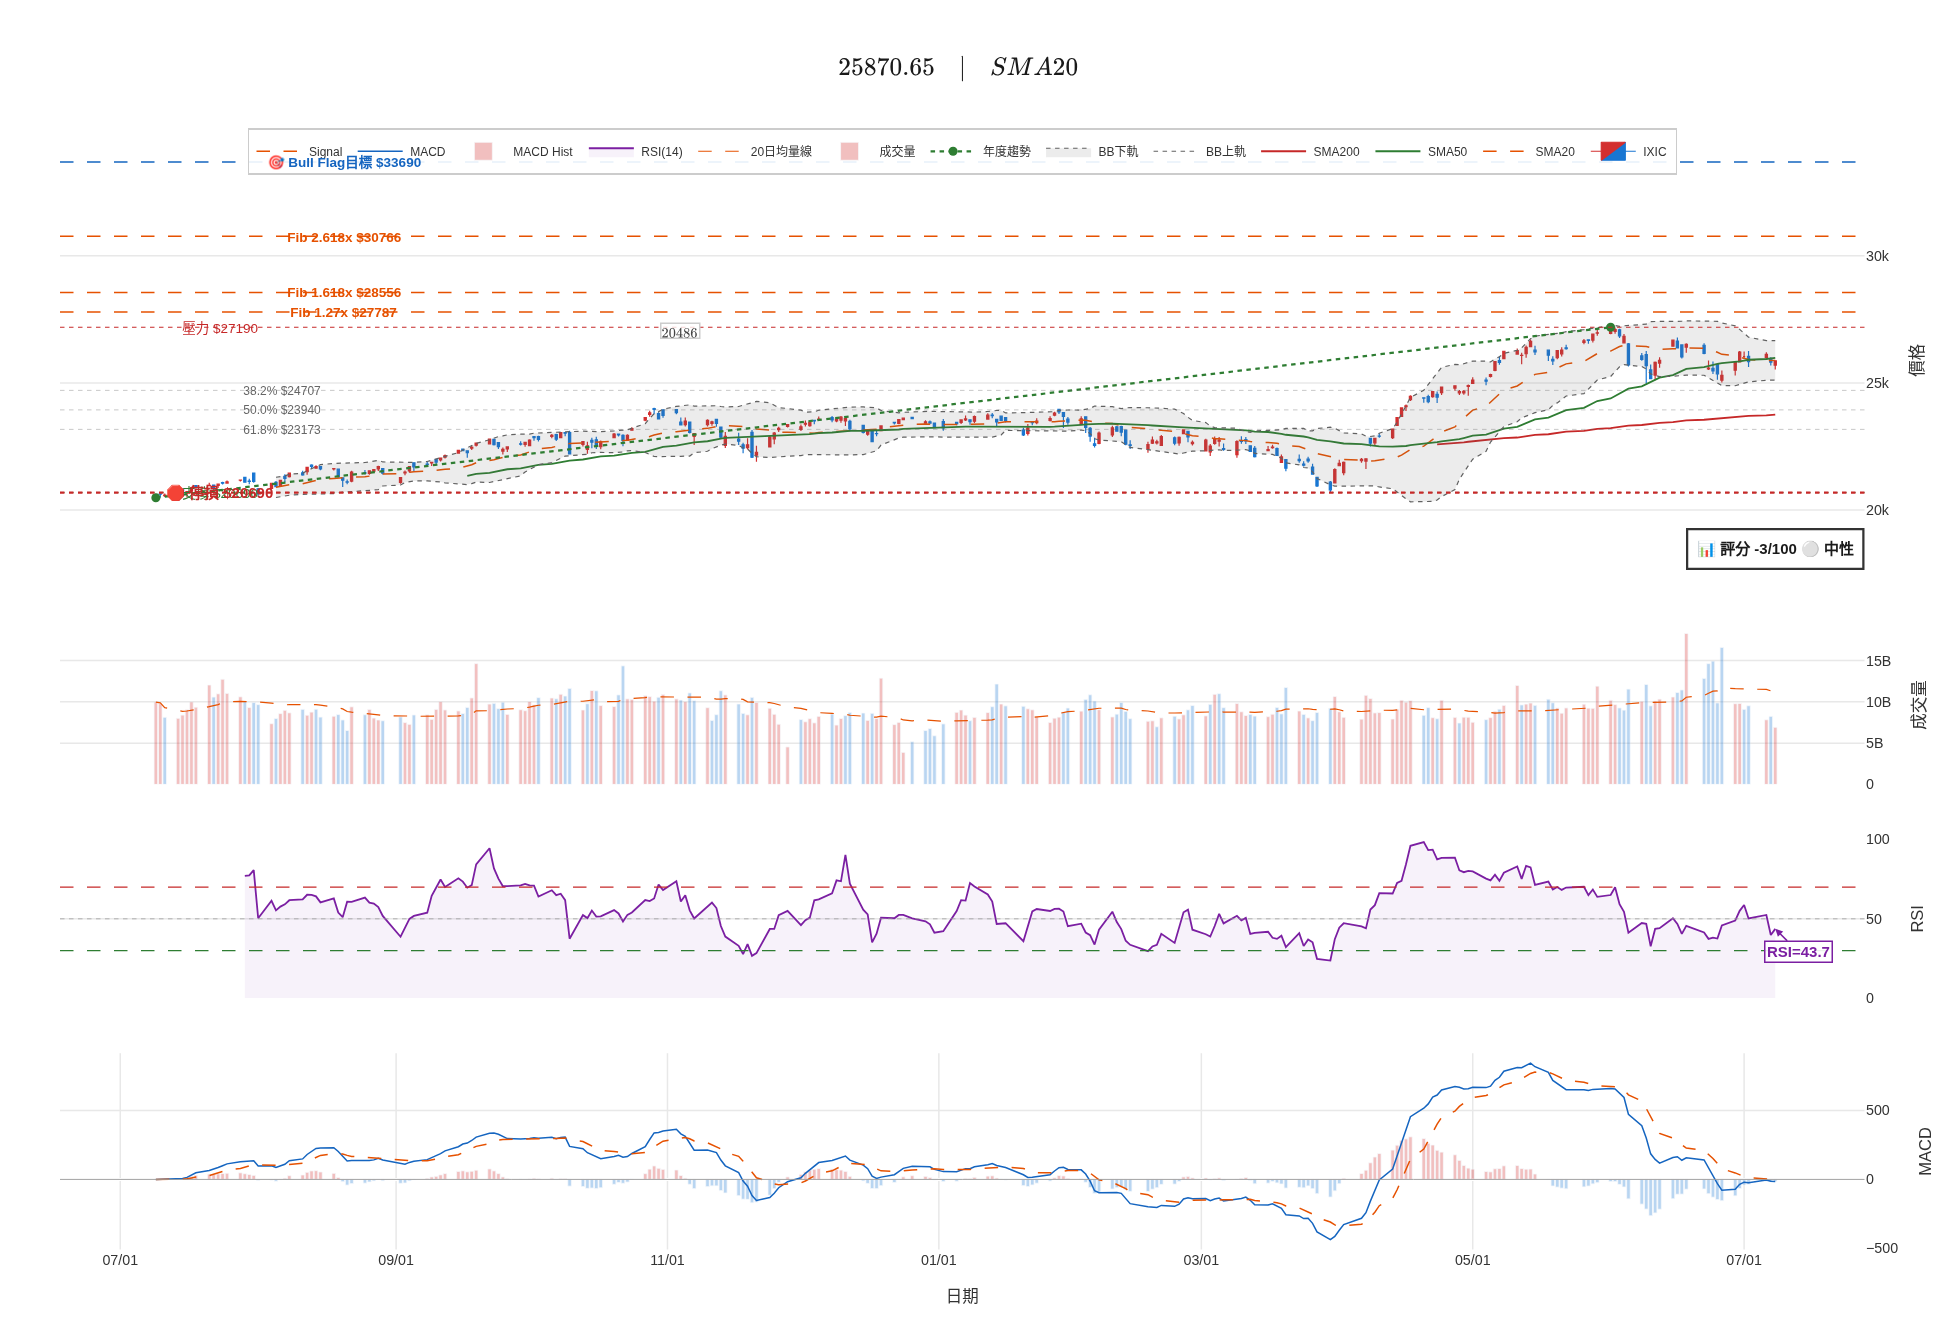
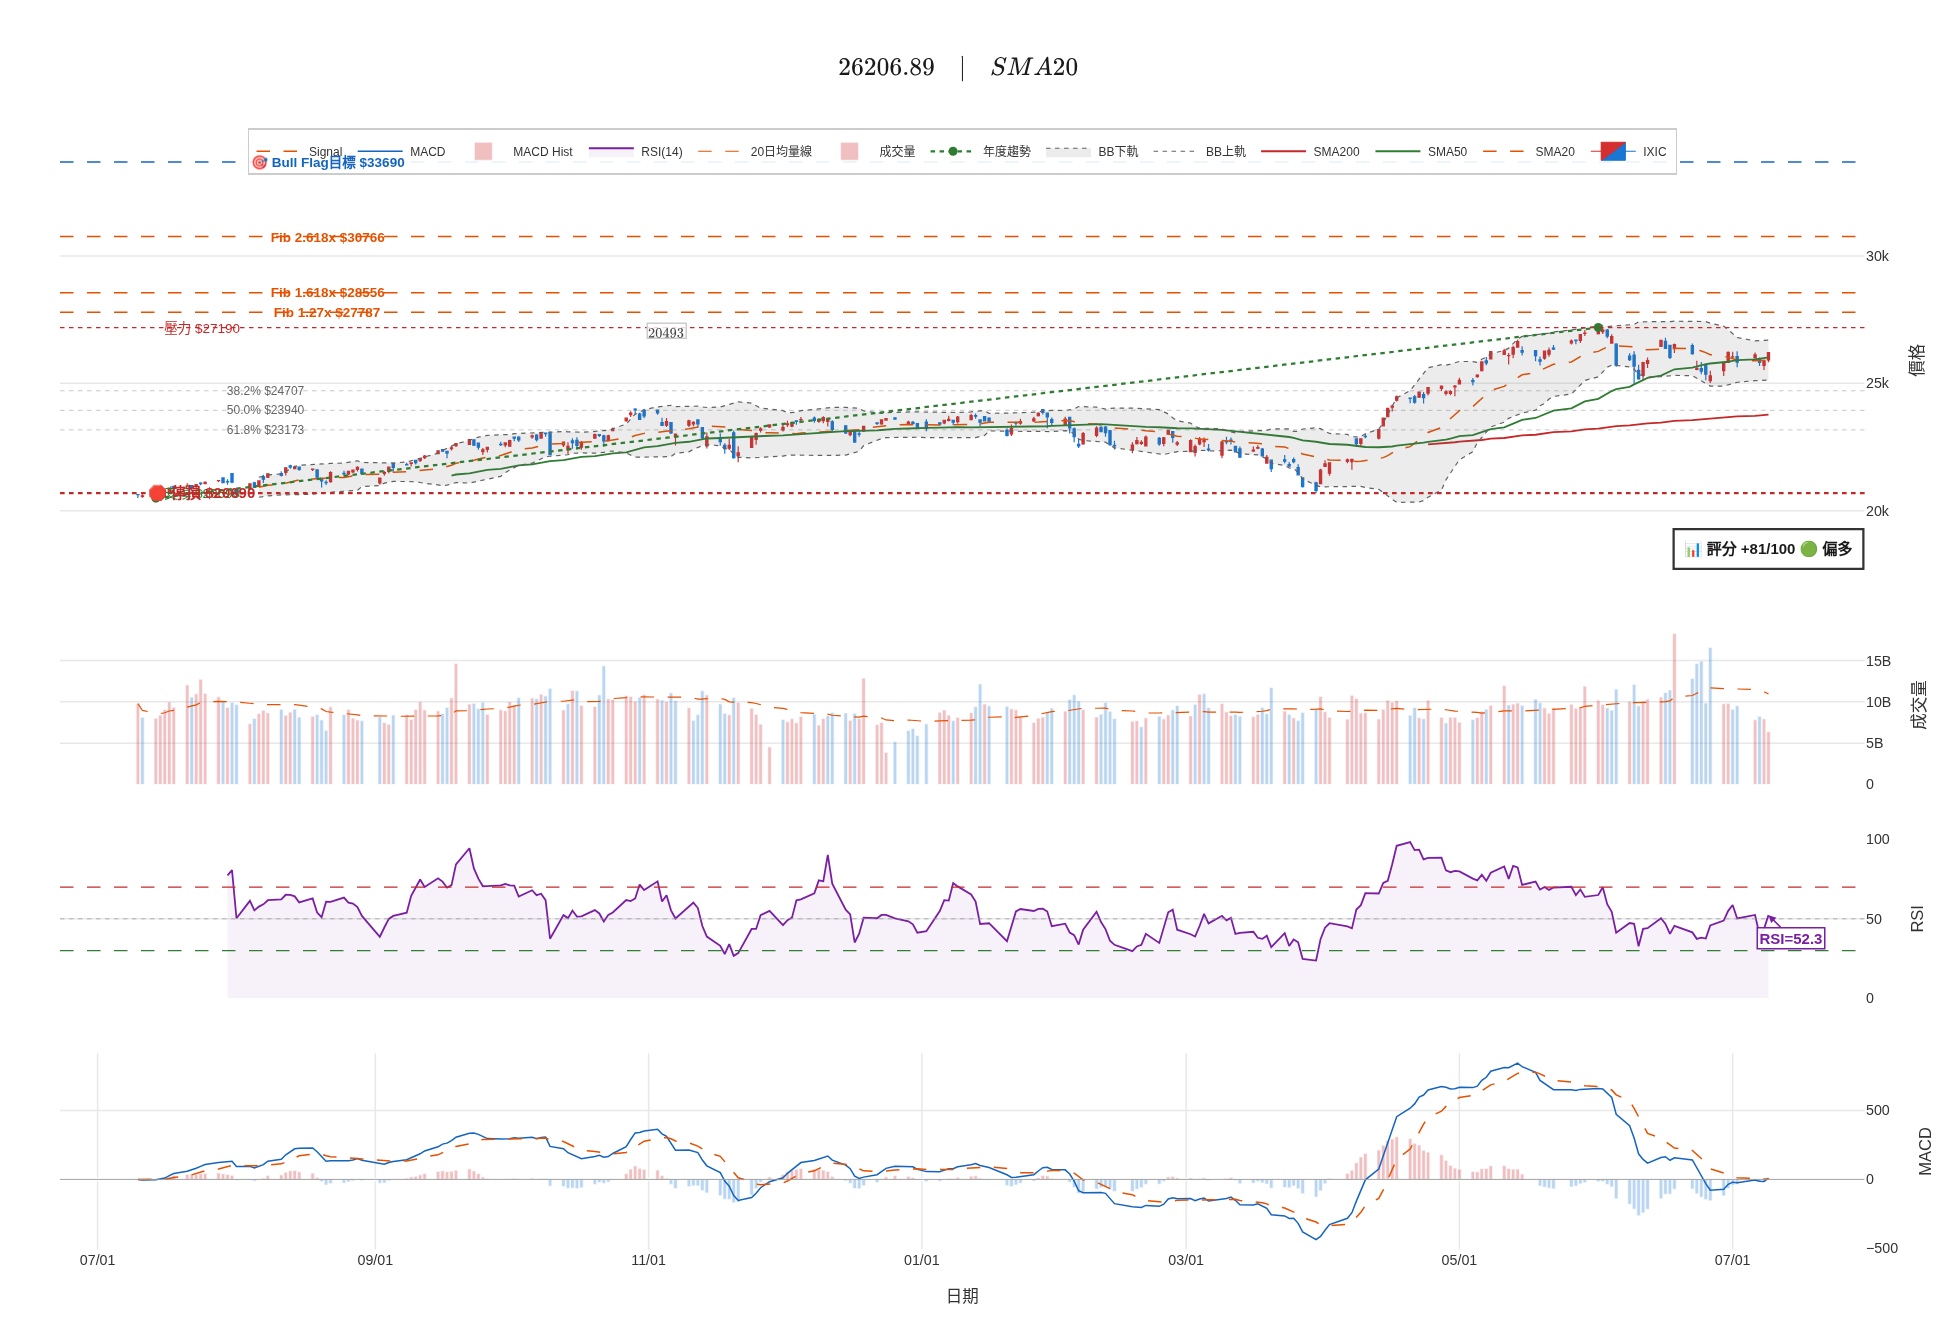
charts: 更新 2026-07-10 技術圖

diff --git a/charts/index.html b/charts/index.html
@@ -39,27 +39,27 @@ body { font-family:'Noto Sans TC',sans-serif; background:#f5f0e8; color:#1a1714;
   <a href="../">← 回首頁</a>
 </div>
 <div class="container">
-  <div class="date-badge">📅 2026/07/09 — 週四盤前</div>
+  <div class="date-badge">📅 2026/07/10 — 週五盤前</div>
   <div class="chart-grid">
     <div class="chart-card">
       <img src="dji.png" alt="道瓊工業指數">
-      <div class="info"><h3>道瓊工業指數 DJI</h3><p>52,348.39 (-1.09%) · RSI 55.8</p></div>
+      <div class="info"><h3>道瓊工業指數 DJI</h3><p>52,487.41 (+0.27%) · RSI 69.0</p></div>
     </div>
     <div class="chart-card">
       <img src="sox.png" alt="費城半導體指數">
-      <div class="info"><h3>費城半導體指數 SOX</h3><p>12,574.97 (+2.23%) · RSI 45.2</p></div>
+      <div class="info"><h3>費城半導體指數 SOX</h3><p>12,960.00 (+3.06%) · RSI 46.7</p></div>
     </div>
     <div class="chart-card">
       <img src="ixic.png" alt="納斯達克指數">
-      <div class="info"><h3>納斯達克指數 IXIC</h3><p>25,870.65 (+0.20%) · RSI 43.7</p></div>
+      <div class="info"><h3>納斯達克指數 IXIC</h3><p>26,206.89 (+1.30%) · RSI 52.3</p></div>
     </div>
     <div class="chart-card">
       <img src="tsm.png" alt="台積電 ADR">
-      <div class="info"><h3>台積電 ADR (TSM)</h3><p>$436.98 (+1.02%) · RSI 52.6</p></div>
+      <div class="info"><h3>台積電 ADR (TSM)</h3><p>$436.96 (-0.00%) · RSI 51.1</p></div>
     </div>
     <div class="chart-card">
       <img src="intc.png" alt="Intel">
-      <div class="info"><h3>Intel (INTC)</h3><p>$110.24 (-0.14%) · RSI 45.9</p></div>
+      <div class="info"><h3>Intel (INTC)</h3><p>$112.54 (+2.09%) · RSI 44.8</p></div>
     </div>
     <div class="chart-card" style="cursor:pointer;" onclick="location.href='taiex-technical.html'">
       <div style="height:160px;background:linear-gradient(135deg,#1a1a2e,#16213e);display:flex;align-items:center;justify-content:center;">
